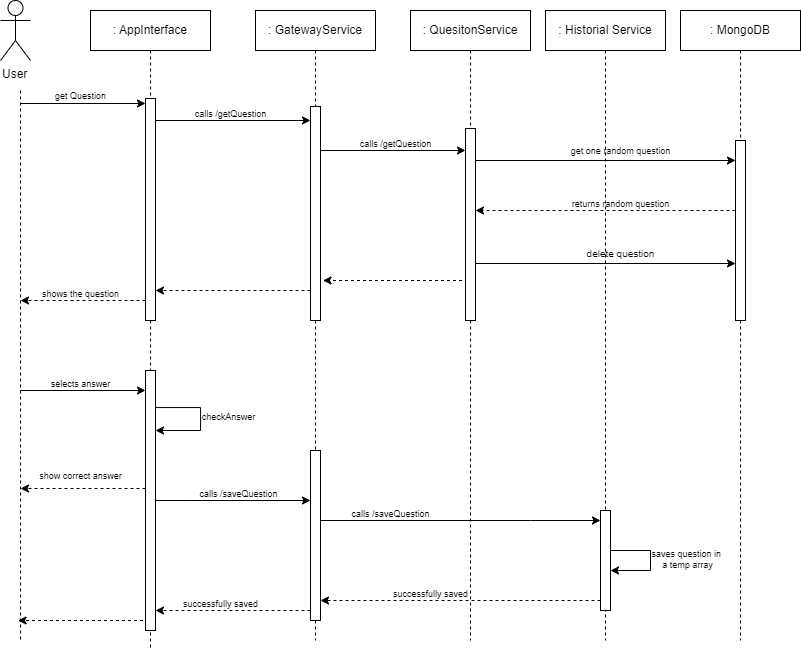
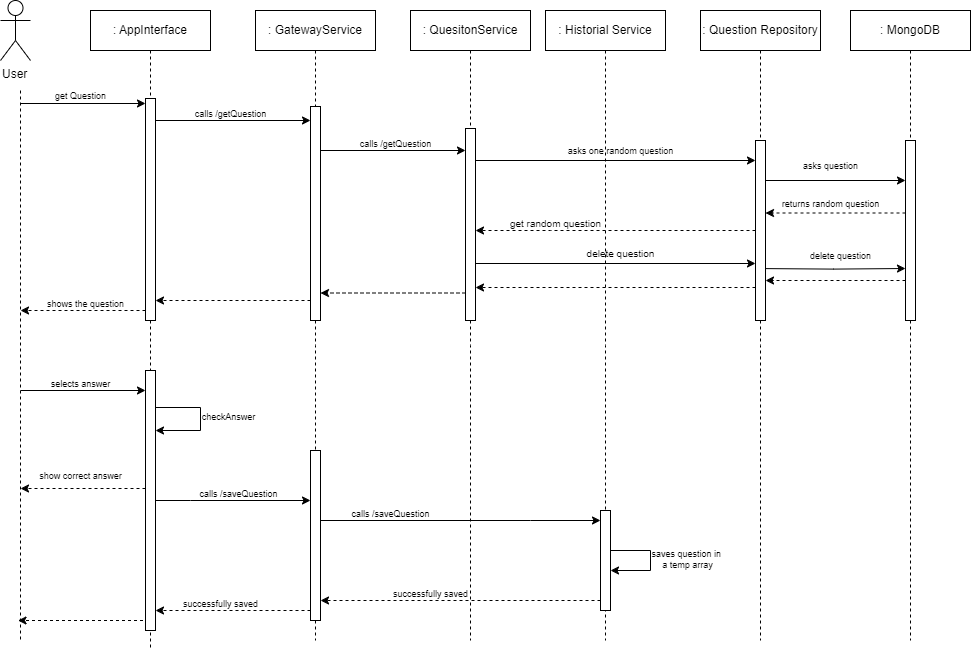
Updates

diff --git a/index.html b/index.html
@@ -483,6 +483,8 @@ body.book #toc,body.book #preamble,body.book h1.sect0,body.book .sect1>h2{page-b
 <li><a href="#_login_scenario">6.3. Login Scenario</a></li>
 <li><a href="#_save_record_scenario">6.4. Save record Scenario</a></li>
 <li><a href="#_get_record_scenario">6.5. Get record Scenario</a></li>
+<li><a href="#_get_all_questions_scenario">6.6. Get all questions Scenario</a></li>
+<li><a href="#_get_all_users_scenario">6.7. Get all users Scenario</a></li>
 </ul>
 </li>
 <li><a href="#section-deployment-view">7. Deployment View</a>
@@ -728,20 +730,8 @@ Additionally, users will also have access to the history of their games.</p></td
 <td class="tableblock halign-left valign-top"><p class="tableblock">Diagrams and ASCIIDoc will be used along with the Arc42 template to keep the documentation updated throughout the development of the web app.</p></td>
 </tr>
 <tr>
-<td class="tableblock halign-left valign-top"><p class="tableblock"><em>SPARQL</em></p></td>
-<td class="tableblock halign-left valign-top"><p class="tableblock">To generate the questions and answers for the game, we will use SPARQL in Wikidata as it is a great source of information to provide
-different types of questions to the users, making the game versatile and non-repetitive.</p></td>
-</tr>
-<tr>
-<td class="tableblock halign-left valign-top"><p class="tableblock"><em>Question generator</em></p></td>
-<td class="tableblock halign-left valign-top"><p class="tableblock">Using the Sparql querys, questions will be automatically generated along with the correct and three incorrect answers. This questions will be
-answered by the user and saved in their history. By using this generator, we ensure that the likelihood of getting the same question in another game is almost none.</p></td>
-</tr>
-<tr>
-<td class="tableblock halign-left valign-top"><p class="tableblock"><em>Users login</em></p></td>
-<td class="tableblock halign-left valign-top"><p class="tableblock">The login of the users must be the first thing that shows up when you open the web of the game. Users will be able to register and to log in. After registering,
-it will be necessary to log in to access the website and start the game.
-Users who already have an account will have the option to start the game or view their data from previus games (number of games, correct and incorrect answers, time played, etc).</p></td>
+<td class="tableblock halign-left valign-top"><p class="tableblock"><em>Question generator with Wikidata</em></p></td>
+<td class="tableblock halign-left valign-top"><p class="tableblock">Questions will be automatically generated along with the correct and three incorrect answers. This questions will be generated with Wikidata.</p></td>
 </tr>
 <tr>
 <td class="tableblock halign-left valign-top"><p class="tableblock"><em>Deployment</em></p></td>
@@ -1069,7 +1059,7 @@ user to see.</p>
 </div>
 <div class="paragraph">
 <p>In this scenario, the question will first be collected from the database. To do so, the question view will call getQuestion, which will propagate to the question service
-propagate to question service where, by means of an aggregate, a random question will be fetched. Afterwards, this question will be deleted from
+propagate to question service where, thanks to the question repository, a random question will be fetched. Afterwards, this question will be deleted from
 the database to avoid repeating questions.
 Once the question has been retrieved, it is displayed in the view. When the user selects one of the 4 answers, the selected answer is checked, the user is notified of the answer.
 the selected answer is checked, the user is notified of this check (whether it is correct or incorrect), and the process of saving the question begins.
@@ -1126,10 +1116,9 @@ When the user is logged, then 10 questions will be generated with wikidata and s
 <div class="paragraph">
 <p>In this diagram we can see the sequence for saving a game. When the game is over, the user is redirected to the Game Final screen,
 where he/she will click on the "Save record" button to save that game in the record.
-First, the gateway service will recognize the action of saving a game, and redirect the request to the historial service,
-who, after creating the connection to the database, will search for the current user. Once the current user has been obtained from the database, the object
-object is created, with the obtained user and the game questions (which have been stored at game time). Finally, the game is saved
-in the database.</p>
+First, the gateway service will recognize the action of saving a game. It will start by obtaining the user by username by calling the /getUserByUsername endpoint of authservice which,
+by a findOne() query will retrieve the user with that username.
+Once the user has been obtained, gateway service will call history service to store the queries and the user in the same batch, thanks to the history repository.</p>
 </div>
 </div>
 <div class="sect2">
@@ -1142,8 +1131,34 @@ in the database.</p>
 <div class="paragraph">
 <p>This diagram shows the process by which a user, previously logged in, accesses the records of his games.
 First, the user will click on the navBar button to access his game record. This will make a call to the /getGameRecord endpoint,
-which the gateway service will redirect to the historial service. This will first check that the user exists and, if so, will return all of the user&#8217;s
-games saved up to the date of the logged in user.</p>
+which the gateway service will catch. This controller will call user service to obtain the user for whom the complete history is to be obtained.
+Once the user is obtained, gateway service will call history service to, through the history repository, obtain the complete history of the user.</p>
+</div>
+</div>
+<div class="sect2">
+<h3 id="_get_all_questions_scenario">6.6. Get all questions Scenario</h3>
+<div class="imageblock">
+<div class="content">
+<img src="./images/getAllQuestions.png" alt="Diagram of a logged user getting all questions">
+</div>
+</div>
+<div class="paragraph">
+<p>This diagram shows the process to get all the questions from the database. Once logged in, the user will click the get DB data button. This will make a call
+to the /getAllQuestions endpoint which, in turn, will get all the questions from the question service.
+Once the questions are obtained, the gateway service will create a temporary questions.json file with all the questions and pass it to the view, which will create a link to download it.</p>
+</div>
+</div>
+<div class="sect2">
+<h3 id="_get_all_users_scenario">6.7. Get all users Scenario</h3>
+<div class="imageblock">
+<div class="content">
+<img src="./images/getAllUsers.png" alt="Diagram of a logged user getting all questions">
+</div>
+</div>
+<div class="paragraph">
+<p>This diagram shows the process to get all the users from the database. Once logged in, the user will click the get DB data button. This will make a call
+to the /getAllUsers endpoint which, in turn, will get all the users from the user service.
+Once the users are obtained, the gateway service will create a temporary users.json file with all the questions and pass it to the view, which will create a link to download it.</p>
 </div>
 <div style="page-break-after: always;"></div>
 </div>
@@ -1287,18 +1302,27 @@ Crafting intuitive interfaces that facilitate effortless interaction with the sy
 </thead>
 <tbody>
 <tr>
-<td class="tableblock halign-left valign-top"><p class="tableblock"><em>React.js</em></p></td>
-<td class="tableblock halign-left valign-top"><p class="tableblock">We decided to use React.js because it is one of the most popular Javascript libraries used nowadays.
-              Although none of us were familiar with it, we thought it would make programming the front-end part of the app better and easier for us.</p></td>
-</tr>
-<tr>
 <td class="tableblock halign-left valign-top"><p class="tableblock"><em>Javascript</em></p></td>
 <td class="tableblock halign-left valign-top"><p class="tableblock">We chose to stick with Javascript for the development of this web app because we already had knowledge of this language from other subjects.
                 We found it to be an accessible language capable of fulfilling all the app&#8217;s requirements, including using APIs such as the one from Wikidata.</p></td>
 </tr>
 <tr>
+<td class="tableblock halign-left valign-top"><p class="tableblock"><em>React.js</em></p></td>
+<td class="tableblock halign-left valign-top"><p class="tableblock">We decided to use React.js because it is one of the most popular Javascript libraries used nowadays.
+              Although none of us were familiar with it, we thought it would make programming the front-end part of the app better and easier for us.</p></td>
+</tr>
+<tr>
 <td class="tableblock halign-left valign-top"><p class="tableblock"><em>Mongodb</em></p></td>
 <td class="tableblock halign-left valign-top"><p class="tableblock">For the database aspect of the app, we opted for Mongodb as we believe it is a well-suited option for storing the data necessary for the design and development of the app.</p></td>
+</tr>
+<tr>
+<td class="tableblock halign-left valign-top"><p class="tableblock"><em>SPARQL</em></p></td>
+<td class="tableblock halign-left valign-top"><p class="tableblock">To generate the questions and answers for the game, we will use SPARQL in Wikidata as it is a great source of information to provide
+different types of questions to the users, making the game versatile and non-repetitive.</p></td>
+</tr>
+<tr>
+<td class="tableblock halign-left valign-top"><p class="tableblock"><em>Users login</em></p></td>
+<td class="tableblock halign-left valign-top"><p class="tableblock">When a user logs into the application, 10 questions will be automatically generated and saved in the database. The decision was made based on the performance demonstrated compared to the other options.</p></td>
 </tr>
 </tbody>
 </table>
@@ -1343,6 +1367,10 @@ Crafting intuitive interfaces that facilitate effortless interaction with the sy
 <td class="tableblock halign-left valign-top"><p class="tableblock">It is responsible for creating the web application´s user interface and involves various functionalities such as rendering views, handling user interactions and communicating with backend services.
             It uses React as the base framework, and html and css to manage the visual appearance of the application.</p></td>
 </tr>
+<tr>
+<td class="tableblock halign-left valign-top"><p class="tableblock"><em>LoadTests</em></p></td>
+<td class="tableblock halign-left valign-top"><p class="tableblock">Handles load tests to test the functionality and performance of the application.</p></td>
+</tr>
 </tbody>
 </table>
 <div style="page-break-after: always;"></div>
@@ -1370,7 +1398,7 @@ Crafting intuitive interfaces that facilitate effortless interaction with the sy
 <p>Maintainability: The system will be easy to maintain, upgrade or extend, without putting the whole project at risk.</p>
 </li>
 <li>
-<p>Security: The system will ensure the privacy and integrity of user data.</p>
+<p>Security: El sistema será seguro para las contraseñas, ya que están hasheadas, y tendrá seguridad contra inyección en URL.</p>
 </li>
 </ul>
 </div>
@@ -1432,6 +1460,14 @@ Crafting intuitive interfaces that facilitate effortless interaction with the sy
 <td class="tableblock halign-left valign-top"><p class="tableblock">User Interface</p></td>
 <td class="tableblock halign-left valign-top"><p class="tableblock">The system stores these credentials</p></td>
 <td class="tableblock halign-left valign-top"><p class="tableblock">These credentials will be encrypted to maintain their security.</p></td>
+</tr>
+<tr>
+<td class="tableblock halign-left valign-top"><p class="tableblock">Players</p></td>
+<td class="tableblock halign-left valign-top"><p class="tableblock">A player wants to access his personal game history</p></td>
+<td class="tableblock halign-left valign-top"><p class="tableblock">Performance</p></td>
+<td class="tableblock halign-left valign-top"><p class="tableblock">The system will show the personal game history</p></td>
+<td class="tableblock halign-left valign-top"><p class="tableblock">These games will be showned in less than 1s</p></td>
+<td class="tableblock halign-left valign-top"><p class="tableblock">Players</p></td>
 </tr>
 </tbody>
 </table>
@@ -1506,6 +1542,22 @@ Crafting intuitive interfaces that facilitate effortless interaction with the sy
 <td class="tableblock halign-left valign-top"><p class="tableblock">Game Interface</p></td>
 <td class="tableblock halign-left valign-top"><p class="tableblock">The system doesn&#8217;t create the game</p></td>
 <td class="tableblock halign-left valign-top"><p class="tableblock">The system will alert the user of the error in the creation</p></td>
+</tr>
+<tr>
+<td class="tableblock halign-left valign-top"><p class="tableblock">Question error</p></td>
+<td class="tableblock halign-left valign-top"><p class="tableblock">A user wants to play a category mode y no hay preguntas de esa categoría</p></td>
+<td class="tableblock halign-left valign-top"><p class="tableblock">Failure</p></td>
+<td class="tableblock halign-left valign-top"><p class="tableblock">Game Interface</p></td>
+<td class="tableblock halign-left valign-top"><p class="tableblock">The system doesn&#8217;t create the question</p></td>
+<td class="tableblock halign-left valign-top"><p class="tableblock">The system will alert the user of the error</p></td>
+</tr>
+<tr>
+<td class="tableblock halign-left valign-top"><p class="tableblock">Record error</p></td>
+<td class="tableblock halign-left valign-top"><p class="tableblock">An error occurs durante el acceso al historial de un usuario</p></td>
+<td class="tableblock halign-left valign-top"><p class="tableblock">Failure</p></td>
+<td class="tableblock halign-left valign-top"><p class="tableblock">Record Interface</p></td>
+<td class="tableblock halign-left valign-top"><p class="tableblock">The system wont show the record</p></td>
+<td class="tableblock halign-left valign-top"><p class="tableblock">The system will alert the user with a internall server error</p></td>
 </tr>
 </tbody>
 </table>
@@ -1768,7 +1820,7 @@ graphical elements, and other visual elements, as well as the logic that control
 <div id="footer">
 <div id="footer-text">
 Version 8.2 EN<br>
-Last updated 2024-04-28 18:51:35 +0200
+Last updated 2024-04-28 21:16:33 +0200
 </div>
 </div>
 </body>
